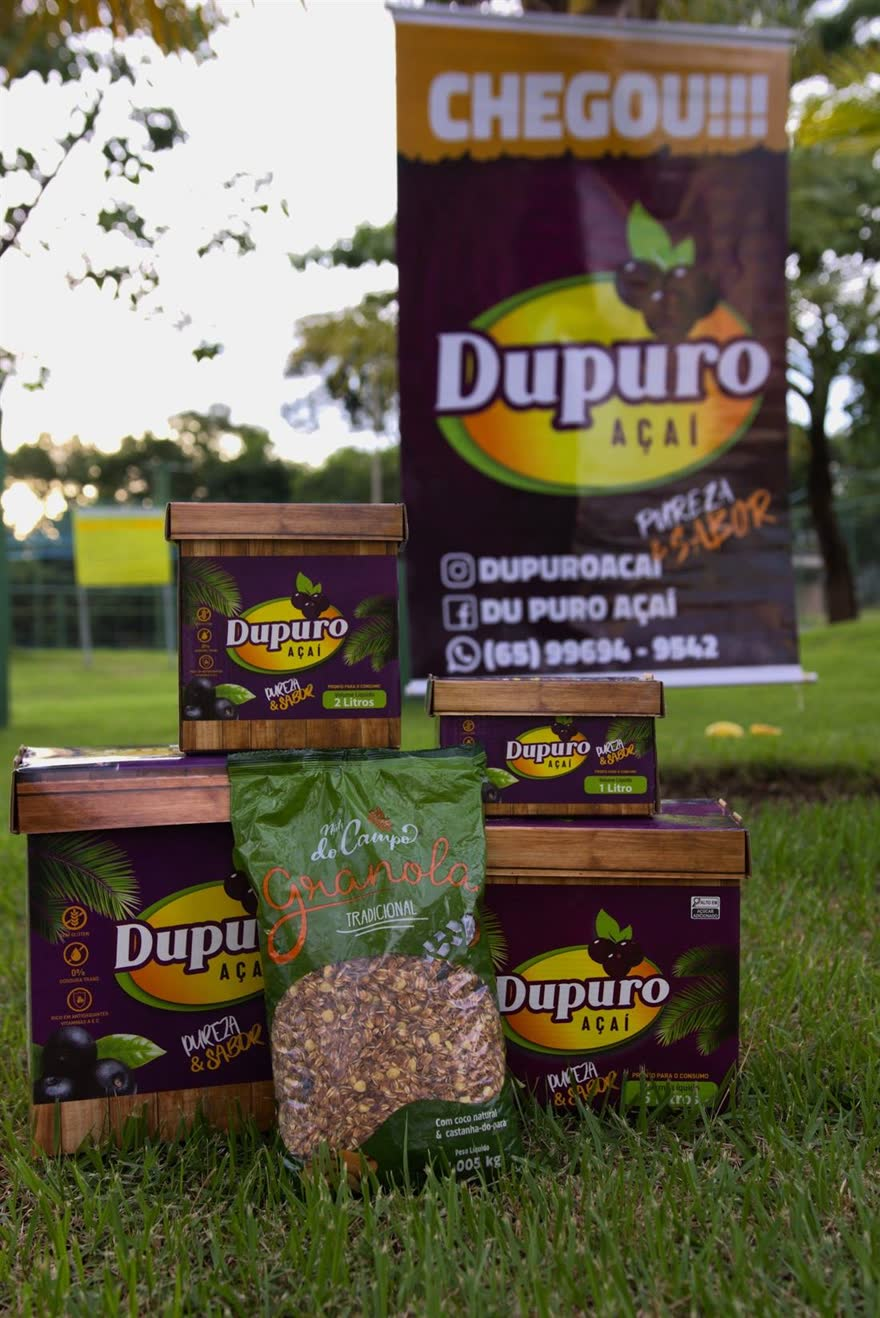
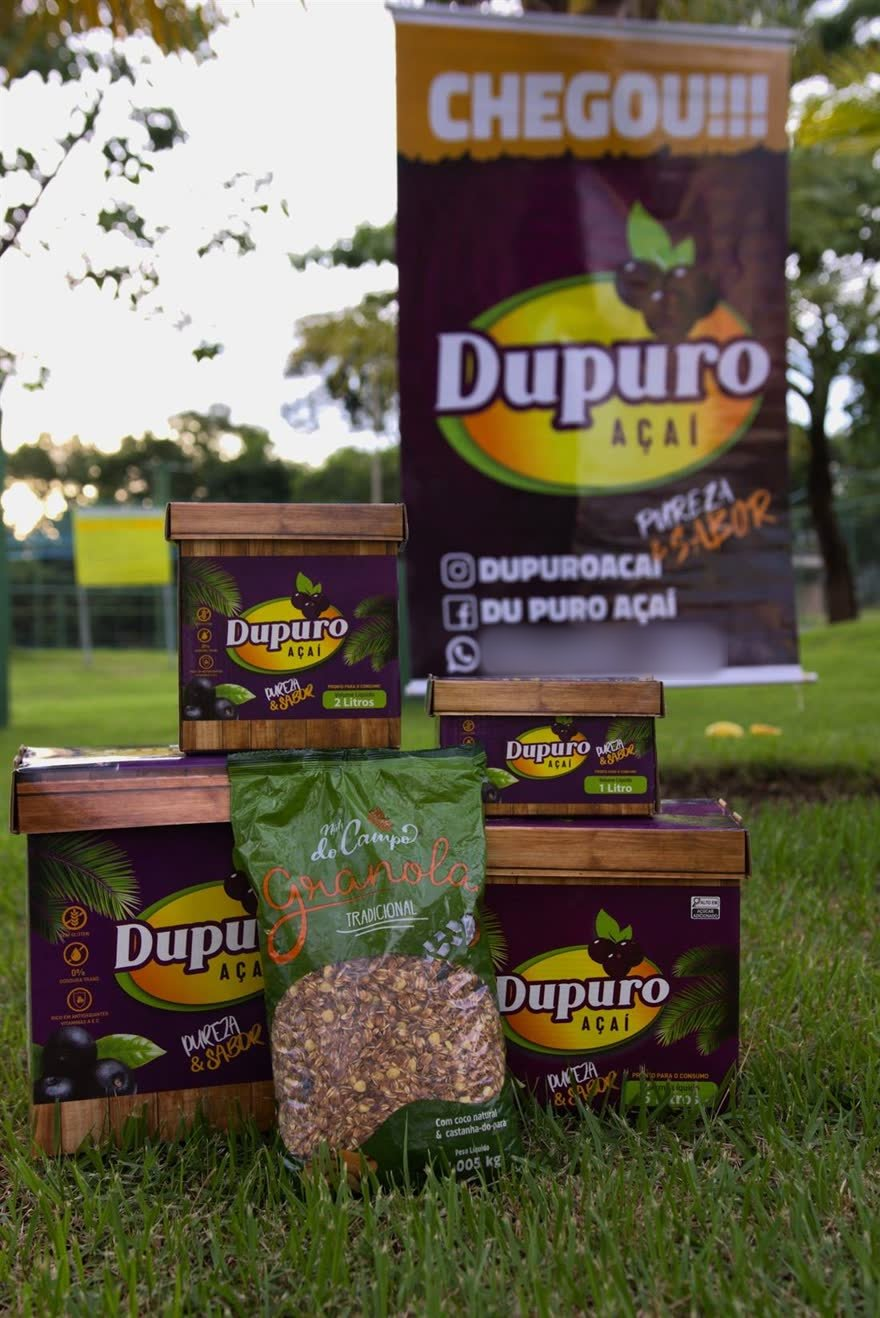
Delivery: topo com a tigela de açaí na caixa, selo do Google fora da foto e número antigo desfocado
Claude-Session: https://claude.ai/code/session_01FD3K2dUiQKyTzg2suxj9tU

Changed region(s): [[0.5216, 0.4666, 0.8284, 0.5288]]

diff --git a/delivery/pedido.html b/delivery/pedido.html
@@ -12,7 +12,7 @@
 <link href="https://fonts.googleapis.com/css2?family=Inter:wght@400;500;600;700;800&display=swap" rel="stylesheet">
 <link rel="preload" href="../assets/fonts/Klinko-PlayfulBold.otf" as="font" type="font/otf" crossorigin>
 <link rel="stylesheet" href="../assets/css/style.css?v=70">
-<link rel="stylesheet" href="delivery.css?v=27">
+<link rel="stylesheet" href="delivery.css?v=28">
 </head>
 <body class="dl-body">
 <svg class="sprite" aria-hidden="true" focusable="false"><symbol id="d-caixa" viewBox="0 0 24 24"><path d="M3 8l9-4 9 4v9l-9 4-9-4z"/><path d="M3 8l9 4 9-4M12 12v9"/></symbol><symbol id="d-sacola" viewBox="0 0 24 24"><path d="M5 8h14l-1.2 12H6.2z"/><path d="M9 8V6.5a3 3 0 0 1 6 0V8"/></symbol><symbol id="d-usuario" viewBox="0 0 24 24"><circle cx="12" cy="8" r="4"/><path d="M4 21a8 8 0 0 1 16 0"/></symbol><symbol id="d-fone" viewBox="0 0 24 24"><rect x="7" y="2.5" width="10" height="19" rx="2.5"/><path d="M11 18.5h2"/></symbol><symbol id="d-pin" viewBox="0 0 24 24"><path d="M12 21s7-6.1 7-11.5a7 7 0 0 0-14 0C5 14.9 12 21 12 21z"/><circle cx="12" cy="9.5" r="2.5"/></symbol><symbol id="d-mapa" viewBox="0 0 24 24"><path d="M9 4L3 6.5v13.5l6-2.5 6 2.5 6-2.5V4l-6 2.5z"/><path d="M9 4v13.5M15 6.5V20"/></symbol><symbol id="d-envelope" viewBox="0 0 24 24"><rect x="3" y="5" width="18" height="14" rx="2"/><path d="M3.5 6l8.5 7 8.5-7"/></symbol><symbol id="d-predio" viewBox="0 0 24 24"><path d="M4 21V6l7-3v18M11 21h9V10l-9-3M7 9h1M7 13h1M7 17h1M14 13h2M14 17h2"/></symbol><symbol id="d-casa" viewBox="0 0 24 24"><path d="M3 11l9-7 9 7M5 9.5V20h14V9.5M10 20v-6h4v6"/></symbol><symbol id="d-chave" viewBox="0 0 24 24"><circle cx="8" cy="15" r="4"/><path d="M11 12l9-9M17 6l2 2M15 8l2 2"/></symbol><symbol id="d-relogio" viewBox="0 0 24 24"><circle cx="12" cy="12" r="9"/><path d="M12 7v5l3 2"/></symbol><symbol id="d-moto" viewBox="0 0 24 24"><circle cx="5.5" cy="17" r="2.5"/><circle cx="18.5" cy="17" r="2.5"/><path d="M8 17h7.5l-2.5-7h-3M13 10l1.5-4H18M3.5 13.5H9l2 3.5"/></symbol><symbol id="d-cartao" viewBox="0 0 24 24"><rect x="2.5" y="5" width="19" height="14" rx="2.5"/><path d="M2.5 10h19M6 15h4"/></symbol><symbol id="d-raio" viewBox="0 0 24 24"><path d="M13 2L4 14h7l-1 8 9-12h-7z"/></symbol><symbol id="d-cadeado" viewBox="0 0 24 24"><rect x="5" y="10.5" width="14" height="10" rx="2"/><path d="M8 10.5V7.5a4 4 0 0 1 8 0v3"/></symbol><symbol id="d-alvo" viewBox="0 0 24 24"><circle cx="12" cy="12" r="8"/><circle cx="12" cy="12" r="3"/><path d="M12 1.5V4M12 20v2.5M1.5 12H4M20 12h2.5"/></symbol><symbol id="d-lixeira" viewBox="0 0 24 24"><path d="M4 7h16M9 7V4.5h6V7M6.5 7l1 13h9l1-13M10 11v6M14 11v6"/></symbol><symbol id="d-alerta" viewBox="0 0 24 24"><path d="M12 3l9.5 17h-19z"/><path d="M12 10v4.5M12 17.5v.5"/></symbol><symbol id="d-sol" viewBox="0 0 24 24"><circle cx="12" cy="12" r="4"/><path d="M12 2.5v2M12 19.5v2M2.5 12h2M19.5 12h2M5.3 5.3l1.4 1.4M17.3 17.3l1.4 1.4M5.3 18.7l1.4-1.4M17.3 6.7l1.4-1.4"/></symbol><symbol id="d-nuvemsol" viewBox="0 0 24 24"><path d="M8 4.5v1.5M3.5 9H5M4.8 5.8l1 1M12.5 7.5a4 4 0 0 0-7.2 2.6"/><path d="M7 20h10a3.5 3.5 0 0 0 0-7 5 5 0 0 0-9.6 1.4A2.8 2.8 0 0 0 7 20z"/></symbol><symbol id="d-check" viewBox="0 0 24 24"><path d="M5 12.5l4.5 4.5L19 7.5"/></symbol><symbol id="d-coracao" viewBox="0 0 24 24"><path d="M12 20s-7.5-4.6-7.5-10A4.3 4.3 0 0 1 12 7.5 4.3 4.3 0 0 1 19.5 10c0 5.4-7.5 10-7.5 10z"/></symbol><symbol id="d-voltar" viewBox="0 0 24 24"><path d="M15 5l-7 7 7 7"/></symbol><symbol id="d-seta" viewBox="0 0 24 24"><path d="M9 5l7 7-7 7"/></symbol><symbol id="d-abre" viewBox="0 0 24 24"><path d="M6 9l6 6 6-6"/></symbol></svg>

diff --git a/delivery/acompanhar.html b/delivery/acompanhar.html
@@ -11,7 +11,7 @@
 <link rel="preconnect" href="https://fonts.gstatic.com" crossorigin>
 <link href="https://fonts.googleapis.com/css2?family=Inter:wght@400;500;600;700;800&display=swap" rel="stylesheet">
 <link rel="stylesheet" href="../assets/css/style.css?v=70">
-<link rel="stylesheet" href="delivery.css?v=27">
+<link rel="stylesheet" href="delivery.css?v=28">
 </head>
 <body class="dl-body">
 <svg class="sprite" aria-hidden="true" focusable="false"><symbol id="d-caixa" viewBox="0 0 24 24"><path d="M3 8l9-4 9 4v9l-9 4-9-4z"/><path d="M3 8l9 4 9-4M12 12v9"/></symbol><symbol id="d-sacola" viewBox="0 0 24 24"><path d="M5 8h14l-1.2 12H6.2z"/><path d="M9 8V6.5a3 3 0 0 1 6 0V8"/></symbol><symbol id="d-usuario" viewBox="0 0 24 24"><circle cx="12" cy="8" r="4"/><path d="M4 21a8 8 0 0 1 16 0"/></symbol><symbol id="d-fone" viewBox="0 0 24 24"><rect x="7" y="2.5" width="10" height="19" rx="2.5"/><path d="M11 18.5h2"/></symbol><symbol id="d-pin" viewBox="0 0 24 24"><path d="M12 21s7-6.1 7-11.5a7 7 0 0 0-14 0C5 14.9 12 21 12 21z"/><circle cx="12" cy="9.5" r="2.5"/></symbol><symbol id="d-mapa" viewBox="0 0 24 24"><path d="M9 4L3 6.5v13.5l6-2.5 6 2.5 6-2.5V4l-6 2.5z"/><path d="M9 4v13.5M15 6.5V20"/></symbol><symbol id="d-envelope" viewBox="0 0 24 24"><rect x="3" y="5" width="18" height="14" rx="2"/><path d="M3.5 6l8.5 7 8.5-7"/></symbol><symbol id="d-predio" viewBox="0 0 24 24"><path d="M4 21V6l7-3v18M11 21h9V10l-9-3M7 9h1M7 13h1M7 17h1M14 13h2M14 17h2"/></symbol><symbol id="d-casa" viewBox="0 0 24 24"><path d="M3 11l9-7 9 7M5 9.5V20h14V9.5M10 20v-6h4v6"/></symbol><symbol id="d-chave" viewBox="0 0 24 24"><circle cx="8" cy="15" r="4"/><path d="M11 12l9-9M17 6l2 2M15 8l2 2"/></symbol><symbol id="d-relogio" viewBox="0 0 24 24"><circle cx="12" cy="12" r="9"/><path d="M12 7v5l3 2"/></symbol><symbol id="d-moto" viewBox="0 0 24 24"><circle cx="5.5" cy="17" r="2.5"/><circle cx="18.5" cy="17" r="2.5"/><path d="M8 17h7.5l-2.5-7h-3M13 10l1.5-4H18M3.5 13.5H9l2 3.5"/></symbol><symbol id="d-cartao" viewBox="0 0 24 24"><rect x="2.5" y="5" width="19" height="14" rx="2.5"/><path d="M2.5 10h19M6 15h4"/></symbol><symbol id="d-raio" viewBox="0 0 24 24"><path d="M13 2L4 14h7l-1 8 9-12h-7z"/></symbol><symbol id="d-cadeado" viewBox="0 0 24 24"><rect x="5" y="10.5" width="14" height="10" rx="2"/><path d="M8 10.5V7.5a4 4 0 0 1 8 0v3"/></symbol><symbol id="d-alvo" viewBox="0 0 24 24"><circle cx="12" cy="12" r="8"/><circle cx="12" cy="12" r="3"/><path d="M12 1.5V4M12 20v2.5M1.5 12H4M20 12h2.5"/></symbol><symbol id="d-lixeira" viewBox="0 0 24 24"><path d="M4 7h16M9 7V4.5h6V7M6.5 7l1 13h9l1-13M10 11v6M14 11v6"/></symbol><symbol id="d-alerta" viewBox="0 0 24 24"><path d="M12 3l9.5 17h-19z"/><path d="M12 10v4.5M12 17.5v.5"/></symbol><symbol id="d-sol" viewBox="0 0 24 24"><circle cx="12" cy="12" r="4"/><path d="M12 2.5v2M12 19.5v2M2.5 12h2M19.5 12h2M5.3 5.3l1.4 1.4M17.3 17.3l1.4 1.4M5.3 18.7l1.4-1.4M17.3 6.7l1.4-1.4"/></symbol><symbol id="d-nuvemsol" viewBox="0 0 24 24"><path d="M8 4.5v1.5M3.5 9H5M4.8 5.8l1 1M12.5 7.5a4 4 0 0 0-7.2 2.6"/><path d="M7 20h10a3.5 3.5 0 0 0 0-7 5 5 0 0 0-9.6 1.4A2.8 2.8 0 0 0 7 20z"/></symbol><symbol id="d-check" viewBox="0 0 24 24"><path d="M5 12.5l4.5 4.5L19 7.5"/></symbol><symbol id="d-coracao" viewBox="0 0 24 24"><path d="M12 20s-7.5-4.6-7.5-10A4.3 4.3 0 0 1 12 7.5 4.3 4.3 0 0 1 19.5 10c0 5.4-7.5 10-7.5 10z"/></symbol></svg>

diff --git a/delivery/index.html b/delivery/index.html
@@ -19,7 +19,7 @@
 <link href="https://fonts.googleapis.com/css2?family=Inter:wght@400;500;600;700;800&display=swap" rel="stylesheet">
 <link rel="preload" href="../assets/fonts/Klinko-PlayfulBold.otf" as="font" type="font/otf" crossorigin>
 <link rel="stylesheet" href="../assets/css/style.css?v=70">
-<link rel="stylesheet" href="delivery.css?v=27">
+<link rel="stylesheet" href="delivery.css?v=28">
 </head>
 <body class="dl-body">
 <svg class="sprite" aria-hidden="true" focusable="false"><symbol id="i-moto" viewBox="0 0 24 24"><circle cx="5.5" cy="17" r="2.5"/><circle cx="18.5" cy="17" r="2.5"/><path d="M8 17h7.5l-2.5-7h-3M13 10l1.5-4H18M3.5 13.5H9l2 3.5"/></symbol><symbol id="i-estrela" viewBox="0 0 24 24"><path d="M12 3l2.7 5.6 6.1.9-4.4 4.3 1 6.1L12 17l-5.4 2.9 1-6.1-4.4-4.3 6.1-.9z"/></symbol><symbol id="i-caixa" viewBox="0 0 24 24"><path d="M3 8l9-4 9 4v9l-9 4-9-4z"/><path d="M3 8l9 4 9-4M12 12v9"/></symbol><symbol id="i-check" viewBox="0 0 24 24"><path d="M5 12.5l4.5 4.5L19 7.5"/></symbol></svg>
@@ -49,7 +49,7 @@
       </ul>
     </div>
     <div class="dl-colagem" aria-hidden="true">
-      <div class="dl-moldura"><img src="../assets/img/delivery/familia-pai-filho-caixa.jpg" alt="" width="880" height="1320" fetchpriority="high"></div>
+      <div class="dl-moldura"><img src="../assets/img/delivery/acai-tigela-caixa.jpg" alt="" width="880" height="1320" fetchpriority="high"></div>
       <div class="dl-polaroid"><img src="../assets/img/delivery/caixa-pote-morango.jpg" alt="" width="600" height="898"><span>direto da fábrica</span></div>
       <img class="dl-selo-gira" src="../assets/img/brand/selo-redondo.png" alt="">
       <div class="dl-float f1"><span class="ic"><svg><use href="#i-moto"/></svg></span><div>Manhã ou tarde<small>segunda a sábado</small></div></div>
@@ -105,7 +105,7 @@
       </div>
     </div>
     <div class="dl-como-foto">
-      <img src="../assets/img/delivery/chegou-caixas.jpg" alt="Caixas Dupuro empilhadas com o aviso Chegou" loading="lazy" width="880" height="1318">
+      <img src="../assets/img/delivery/chegou-caixas.jpg?v=2" alt="Caixas Dupuro empilhadas com o aviso Chegou" loading="lazy" width="880" height="1318">
     </div>
   </div>
 </section>

diff --git a/delivery/delivery.css b/delivery/delivery.css
@@ -69,7 +69,7 @@
 .dl-float .ic { width: 34px; height: 34px; border-radius: 11px; display: flex; align-items: center; justify-content: center; font-size: 17px; flex: none; }
 .dl-float small { display: block; font-weight: 600; color: var(--text-light); font-size: 11.5px; }
 .dl-float.f1 { top: 16%; left: -6%; transform: rotate(2deg); } .dl-float.f1 .ic { background: rgba(139,184,49,.2); }
-.dl-float.f2 { top: 54%; left: -10%; transform: rotate(-2deg); } .dl-float.f2 .ic { background: rgba(245,179,1,.22); }
+.dl-float.f2 { top: auto; bottom: 4%; left: -8%; transform: rotate(-2deg); } /* embaixo: não cobre o centro da foto */ .dl-float.f2 .ic { background: rgba(245,179,1,.22); }
 @media (min-width: 900px) {
   .dl-hero { padding: 130px 0 100px; }
   .dl-hero-grid { grid-template-columns: 1.05fr .95fr; gap: 40px; }
@@ -85,7 +85,7 @@
   .dl-hero-txt > h1 { order: 2; font-size: clamp(36px, 10.4vw, 56px); margin: 16px 0 22px; }
   .dl-colagem { order: 3; width: min(330px, 78vw); margin: 4px auto 34px; }
   .dl-float { padding: 8px 11px; font-size: 11.5px; } .dl-float .ic { width: 28px; height: 28px; font-size: 14px; }
-  .dl-float.f1 { top: -3%; left: -6%; } .dl-float.f2 { top: auto; bottom: 22%; left: -8%; }
+  .dl-float.f1 { top: -3%; left: -6%; } .dl-float.f2 { top: auto; bottom: 5%; left: -5%; }
   .dl-hero-txt > .dl-lead { order: 4; font-size: 16.5px; }
   .dl-hero-txt > .dl-preco-gancho { order: 5; justify-self: start; }
   .dl-hero-txt > .dl-acoes { order: 6; flex-direction: column; gap: 12px; }

diff --git a/docs/delivery.md b/docs/delivery.md
@@ -6,5 +6,5 @@ Parte do contexto do projeto (índice e regras gerais no `CLAUDE.md` da raiz).
 - **Jev escolhe o candidato do endereço (2026-10-23, `delivery-cotacao` v11):** entre os resultados do Pelias, uma pergunta Choice escolhe o que é o mesmo lugar do texto digitado (mesma rua, número, bairro) ou `nenhum` (conf. ≥ 0,7 → descarta todos e cai no CEP/bairro); conf. < 0,5, erro ou sem `TYPESAFE_API_KEY` → ordem do Pelias, como antes. Timeout 3 s. Só o endereço vai ao Jev (nunca nome/telefone). Teste sintético 4/4 (incluindo 3 casos em que o 1º do Pelias estava errado).
 - **Pagamento no nosso site (2026-10-24, pedido do Kayo — o Checkout Pro tirava o cliente do site):** `delivery-checkout` (v8) cria o pedido e devolve `public_key` (secret `MP_PUBLIC_KEY`) + `init_point` (plano B). Em `pedido.html` o **Payment Brick** do MP (SDK `sdk.mercadopago.com/js/v2`, carregado no clique) aparece no resumo (`#mpArea`); o cartão é tokenizado pelo SDK. `onSubmit` → Edge Function **`delivery-pagar`** (verify_jwt false; pedido identificado pelo token): cobra `/v1/payments` com o **total do banco**, `X-Idempotency-Key` = token + tentativa, cancela Pix pendente antigo ao trocar de forma; aprovado → `delivery_confirmar_pagamento`. Pix volta com QR + copia e cola na nossa página e `acao:'status'` é consultada a cada 4 s (e ao voltar do app do banco) — não depende só do webhook. Pago → `acompanhar.html?t=…&novo=1` com "Pedido confirmado!", "Salvar este link no meu WhatsApp" e "Falar com a Dupuro". **Faixa "Seu pedido"** (`D.faixaSeuPedido`, `localStorage['dupuro-delivery-meus']` só com o token) na home e no anúncio enquanto pago/a caminho. Sem `MP_PUBLIC_KEY` cai no plano B (tela do MP). Webhook confirmado funcionando (DLV-0002 do Kayo gravou `mp_status` pending).
 - **Pagamento na entrega (migration_049, 2026-10-24):** no passo 3 o cliente escolhe "Pagar agora pelo site" (Brick: Pix + crédito; **débito saiu** — o MP online só aceita débito virtual Caixa) ou "Pagar na entrega" (dinheiro/Pix/débito/crédito na maquininha; dinheiro mostra o total e pergunta o troco). `delivery-checkout` (v10) com `pagamento:'entrega'` grava `pagar_na_entrega`/`forma_entrega`/`troco_para` e confirma na hora (`delivery_confirmar_pagamento` com `p_metodo 'na_entrega_<forma>'` → status `pago` = confirmado, baixa estoque; decisão do Kayo: vale na hora). Admin: cartão mostra "Receber na entrega: R$ X · forma · troco pra Y (levar Z)"; o botão vira **"Entregue e recebido"** e pergunta como recebeu (`recebido_forma`/`recebido_em`, separado do caixa da loja); **Cancelar** em toda entrega (`delivery_cancelar`, só admin, devolve estoque; pago online → estornar no MP). Rastreio devolve `na_entrega`/`forma_entrega`/`troco_para`.
-- **Rotas de entrega (migration_050, 2026-10-24):** página `area-cliente/rotas.html` (admin; link "Rotas de entrega" no menu). Por dia + período junta delivery `pago/em_rota` e pedidos de revendedor `processando` com `entrega_info.tipo='entrega'` (os `enviado` ficam de fora, com aviso). Edge Function **`rota`** (verify_jwt true, confere admin): `montar` (geocodifica revenda pelo Pelias + Jev Choice, cache `geo_enderecos`; ordem pelo **VROOM** do ORS em `api.heigit.org/openrouteservice/optimization`, fallback matriz + busca exata/2-opt; traçado Directions → `rotas.geometria`, ETA por parada com 5 min de serviço), `recalcular` (ordem nova), `mover_pin` (corrige ponto, grava no cache), `iniciar` (delivery vira `em_rota`), `parada` (feita → entregue; pago na entrega pede a forma; pulada; reabrir). **Segunda opinião do Jev** (`rotas.avaliacao`): recebe a rota escolhida comparada com a ordem de chegada e "sempre o mais perto" (km pela matriz real) e devolve Score/Noul — sozinho, só com endereços, ele respondeu com confiança 0; com a comparação, 0,97. A tela mostra a economia em km e a nota do Jev só com confiança ≥ 0,5. **GPS do entregador:** `watchPosition` + Wake Lock na própria página, grava `rota_posicao` a cada ~15 s (some com tela apagada — limitação aceita). **Cliente:** `delivery_rastreio` devolve `rota` (`faltam`, `eta`; e `destino`/`entregador` só quando a próxima parada é a dele e o GPS tem < 3 min); `acompanhar.html` mostra "Faltam N entregas antes da sua" ou o mapa ao vivo (Leaflet sob demanda), atualizando a cada 10 s. **Rastreio estilo Mercado Livre (migration_054, 2026-10-26, decisões do Kayo):** `rota.fase` = `longe` ("Seu pedido saiu para entrega" + horário, sem mapa nem nº de entregas) → `perto` (GPS do entregador a até `delivery_config.config.raio_mapa_km`, padrão 5 km em linha reta, ainda em outra entrega: "Seu pedido está próximo! Estamos finalizando outras entregas na sua região…" + mapa COM o entregador) → `a_caminho` (é a próxima parada, qualquer distância: "Seu pedido está a caminho!" + mapa). Sem GPS fresco (< 3 min) cai em `longe`. **Avisos manuais no WhatsApp (2026-10-26, até ter envio automático):** card do delivery `pago` tem "Avisar: pedido confirmado" (`textoConfirmadoDelivery`, data/turno, pagamento, itens, link); em **Rotas** cada parada tem um botão verde com a mensagem da fase atual (`faseAviso`: saiu → está próximo [GPS do próprio celular ≤ `raio_mapa_km`] → está a caminho [próxima parada] → entregue), o rótulo muda com o GPS, e avisar "saiu"/"entregue" marca o aviso correspondente de `avisos_cliente` como avisado. Horário previsto só entra na mensagem se ainda não passou. **Marcar no mapa de novo (2026-10-26):** botão "Marque o ponto no mapa · Mais fácil e a entrega chega certinho" (mesmo texto do revendedor). Endereço que veio do mapa (`enderecoDoMapa`) é trocado sozinho ao marcar outro ponto; só o digitado (inclusive via CEP) é mantido com "Usar o endereço do mapa". Número antigo só fica se o ponto novo é na mesma rua e o mapa não achou número (vale também em `assets/js/endereco.js`). **Aviso no card (2026-10-26):** "Saiu pra entrega" num pedido que não é parada de rota `em_andamento` abre aviso (o cliente não verá o mapa) com "Abrir Rotas" / "Marcar mesmo assim" (`deliveryEmRotaIniciada` em `admin.js`) — o teste DLV-0016 foi marcado pelo card, sem rota, e o mapa nunca apareceu.
+- **Rotas de entrega (migration_050, 2026-10-24):** página `area-cliente/rotas.html` (admin; link "Rotas de entrega" no menu). Por dia + período junta delivery `pago/em_rota` e pedidos de revendedor `processando` com `entrega_info.tipo='entrega'` (os `enviado` ficam de fora, com aviso). Edge Function **`rota`** (verify_jwt true, confere admin): `montar` (geocodifica revenda pelo Pelias + Jev Choice, cache `geo_enderecos`; ordem pelo **VROOM** do ORS em `api.heigit.org/openrouteservice/optimization`, fallback matriz + busca exata/2-opt; traçado Directions → `rotas.geometria`, ETA por parada com 5 min de serviço), `recalcular` (ordem nova), `mover_pin` (corrige ponto, grava no cache), `iniciar` (delivery vira `em_rota`), `parada` (feita → entregue; pago na entrega pede a forma; pulada; reabrir). **Segunda opinião do Jev** (`rotas.avaliacao`): recebe a rota escolhida comparada com a ordem de chegada e "sempre o mais perto" (km pela matriz real) e devolve Score/Noul — sozinho, só com endereços, ele respondeu com confiança 0; com a comparação, 0,97. A tela mostra a economia em km e a nota do Jev só com confiança ≥ 0,5. **GPS do entregador:** `watchPosition` + Wake Lock na própria página, grava `rota_posicao` a cada ~15 s (some com tela apagada — limitação aceita). **Cliente:** `delivery_rastreio` devolve `rota` (`faltam`, `eta`; e `destino`/`entregador` só quando a próxima parada é a dele e o GPS tem < 3 min); `acompanhar.html` mostra "Faltam N entregas antes da sua" ou o mapa ao vivo (Leaflet sob demanda), atualizando a cada 10 s. **Rastreio estilo Mercado Livre (migration_054, 2026-10-26, decisões do Kayo):** `rota.fase` = `longe` ("Seu pedido saiu para entrega" + horário, sem mapa nem nº de entregas) → `perto` (GPS do entregador a até `delivery_config.config.raio_mapa_km`, padrão 5 km em linha reta, ainda em outra entrega: "Seu pedido está próximo! Estamos finalizando outras entregas na sua região…" + mapa COM o entregador) → `a_caminho` (é a próxima parada, qualquer distância: "Seu pedido está a caminho!" + mapa). Sem GPS fresco (< 3 min) cai em `longe`. **Avisos manuais no WhatsApp (2026-10-26, até ter envio automático):** card do delivery `pago` tem "Avisar: pedido confirmado" (`textoConfirmadoDelivery`, data/turno, pagamento, itens, link); em **Rotas** cada parada tem um botão verde com a mensagem da fase atual (`faseAviso`: saiu → está próximo [GPS do próprio celular ≤ `raio_mapa_km`] → está a caminho [próxima parada] → entregue), o rótulo muda com o GPS, e avisar "saiu"/"entregue" marca o aviso correspondente de `avisos_cliente` como avisado. Horário previsto só entra na mensagem se ainda não passou. **Topo do delivery (2026-10-26, escolha do Kayo):** foto da moldura = `acai-tigela-caixa.jpg` (tigela de açaí sobre a caixa de 10 L; antes `familia-pai-filho-caixa.jpg`, que segue como og:image); selo "4,8 no Google" (`.dl-float.f2`) desceu pro canto de baixo pra não cobrir o centro da foto. Fotos com o banner "CHEGOU!!!" mostram o telefone antigo (65) 99694-9542: em `chegou-caixas.jpg` o número foi desfocado (decisão do Kayo). **Marcar no mapa de novo (2026-10-26):** botão "Marque o ponto no mapa · Mais fácil e a entrega chega certinho" (mesmo texto do revendedor). Endereço que veio do mapa (`enderecoDoMapa`) é trocado sozinho ao marcar outro ponto; só o digitado (inclusive via CEP) é mantido com "Usar o endereço do mapa". Número antigo só fica se o ponto novo é na mesma rua e o mapa não achou número (vale também em `assets/js/endereco.js`). **Aviso no card (2026-10-26):** "Saiu pra entrega" num pedido que não é parada de rota `em_andamento` abre aviso (o cliente não verá o mapa) com "Abrir Rotas" / "Marcar mesmo assim" (`deliveryEmRotaIniciada` em `admin.js`) — o teste DLV-0016 foi marcado pelo card, sem rota, e o mapa nunca apareceu.
 - **Limite de entregas por rota (migration_052):** `delivery_config.config.limite_por_rota` (padrão 10, campo na tela Rotas). `turno_ocupacao` conta delivery pago/em_rota/entregue (+ aguardando < 30 min) + pedidos de revenda com entrega + checkouts de revenda aguardando < 30 min; retirada não conta. `delivery_turnos_lotados()` (pública) → o site esconde o período lotado (`D.getLotados`, `janelasDisponiveis(cfg, n, lotados)`; painel do revendedor marca "Lotado"). `delivery-checkout` (v11) e `criar_pedido_revendedor_para` recusam turno lotado (a confirmação de pagamento online já aprovado passa).
